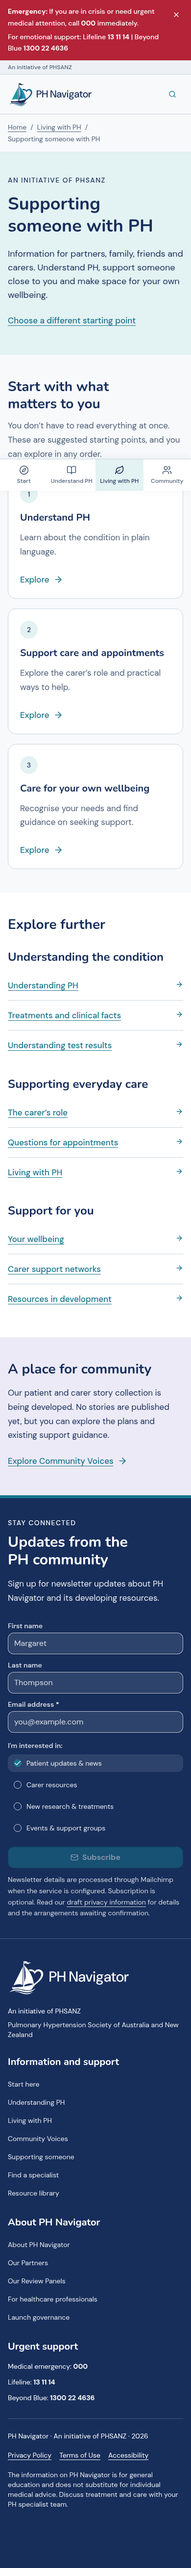
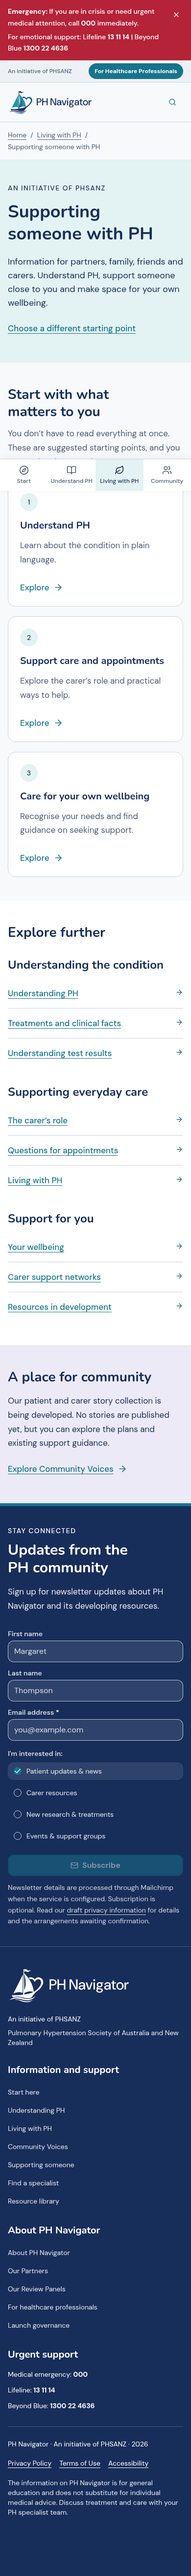
Restore the For Healthcare Professionals utility button

diff --git a/artifacts/ph-navigator/src/components/layout/UtilityHeader.tsx b/artifacts/ph-navigator/src/components/layout/UtilityHeader.tsx
@@ -1,7 +1,17 @@
+import { Link } from "wouter";
+
 export function UtilityHeader() {
   return (
     <div className="border-b border-border bg-muted px-4 py-1.5 text-xs font-medium text-muted-foreground">
-      <div className="container mx-auto">An initiative of PHSANZ</div>
+      <div className="container mx-auto flex flex-wrap items-center justify-between gap-x-4 gap-y-2">
+        <span>An initiative of PHSANZ</span>
+        <Link
+          href="/for-healthcare-professionals"
+          className="inline-flex min-h-8 items-center rounded-full bg-secondary px-3 py-1 text-xs font-bold text-white transition-colors hover:bg-secondary/90"
+        >
+          For Healthcare Professionals
+        </Link>
+      </div>
     </div>
   );
 }

diff --git a/docs/patient-journeys.md b/docs/patient-journeys.md
@@ -16,7 +16,7 @@ The audience choices are ordinary links, not a questionnaire. They do not collec
 - Added `/understanding-ph`, gathering existing condition, diagnosis, treatment, test and appointment guidance. `/recently-diagnosed` remains a guided entry rather than the only route to clinical information.
 - Rebuilt the three audience hubs using shared `JourneyHub` recommended links/grouped-topic lists. Three suggestions lead into compact further-topic groups. The existing newly-diagnosed note about online information is preserved in a keyboard-accessible disclosure.
 - Living with PH groups everyday life, care and support. Supporting someone brings condition information, care/appointments and carer wellbeing together.
-- Desktop navigation: Understanding PH, Living with PH and Community Voices, with Start here and Search as utilities. Mobile tabs: Start, Understand PH, Living with PH and Community. Removed the More drawer and top professional-information CTA.
+- Desktop navigation: Understanding PH, Living with PH and Community Voices, with Start here and Search as utilities. Mobile tabs: Start, Understand PH, Living with PH and Community. Removed the More drawer. Following user review, the For Healthcare Professionals button is retained in the top utility bar.
 - Navigation configuration is shared by header, mobile tabs, footer and breadcrumb grouping. Updated search labels and added the two new routes to search.
 - Added patient-route breadcrumbs. Supporting-someone pages belong to the Living with PH navigation group; diagnosis/treatment pages belong to Understanding PH. Routes remain independently browsable, not audience-locked.
 - Shortened homepage to welcoming hero/Start action, three main pathway cards, the honest community placeholder and a brief PHSANZ attribution. Detailed education and resources are reached through the hubs.
@@ -38,7 +38,7 @@ Permanent public domain and printable QR artwork remain pending: see [clinic pri
 - Production builds pass for Cloudflare root and GitHub Pages subpath; existing bundle-size/third-party sourcemap advisories remain.
 - All 31 routes render at 390px and 1440px without horizontal overflow or nested controls. Browser link-graph traversal confirms all routes remain reachable from home/start.
 - New journey pages also pass at 320, 768, 1024 and 1280px.
-- All three clinic paths and browser-back navigation pass. At 390 × 844px, the third clinic card begins at 609px with the urgent banner visible.
+- All three clinic paths and browser-back navigation pass. The clinic choices were checked with the urgent banner visible. The professional-site button is also visible in the utility bar after the user’s requested refinement.
 - Breadcrumb navigation, desktop three-item/mobile four-item navigation, search, resource search and mocked newsletter success pass; no live newsletter submission or runtime errors.
 - Subpath smoke checks verify clinic entry/back, new hubs, fonts/logos and breadcrumbs. Light clinic-footer keyboard focus is visibly coloured.
 - Local axe WCAG 2 A/AA, 2.1 AA and 2.2 AA sampling reports no violations on homepage, Start, Understanding PH, all three audience hubs and Community Voices. [Results](journeys-accessibility.json). Full manual conformance review remains outstanding; existing map-pin limitations are unchanged.
@@ -57,3 +57,7 @@ PORT=3000 BASE_PATH=/ pnpm --filter @workspace/ph-navigator run dev
 ```
 
 Do not merge or deploy to production without review.
+
+## Professional-site button retained
+
+Following review, the For Healthcare Professionals button is restored in the shared utility bar, including the clinic landing page. It links to the existing professional page without changing the three-item patient navigation. The button remains visible and routes correctly at 320, 390, 768 and 1440px, with no horizontal overflow. Production build and frontend typecheck pass; screenshots above are refreshed.
